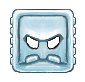
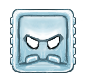
Cleaned up icecrusher eye socket graphics, made eyes during recovery more googly

diff --git a/src/object/icecrusher.cpp b/src/object/icecrusher.cpp
@@ -295,7 +295,7 @@ IceCrusher::eye_position(bool right)
   {
     // Eyes spin while icecrusher is recovering, giving a dazed impression
     return Vector(sin((right ? 1 : -1) * get_pos().y/13) * sprite->get_width()/64 * 2 - (right ? 1 : -1) * sprite->get_width()/64 * 2,
-                  cos(get_pos().y/13) * sprite->get_width()/64 * 2 - sprite->get_width()/64 * 2);
+                  cos(((right ? 3.1415 : 0) + get_pos().y/13)) * sprite->get_width()/64 * 2 - sprite->get_width()/64 * 2);
   }
 
   return Vector(0,0);
